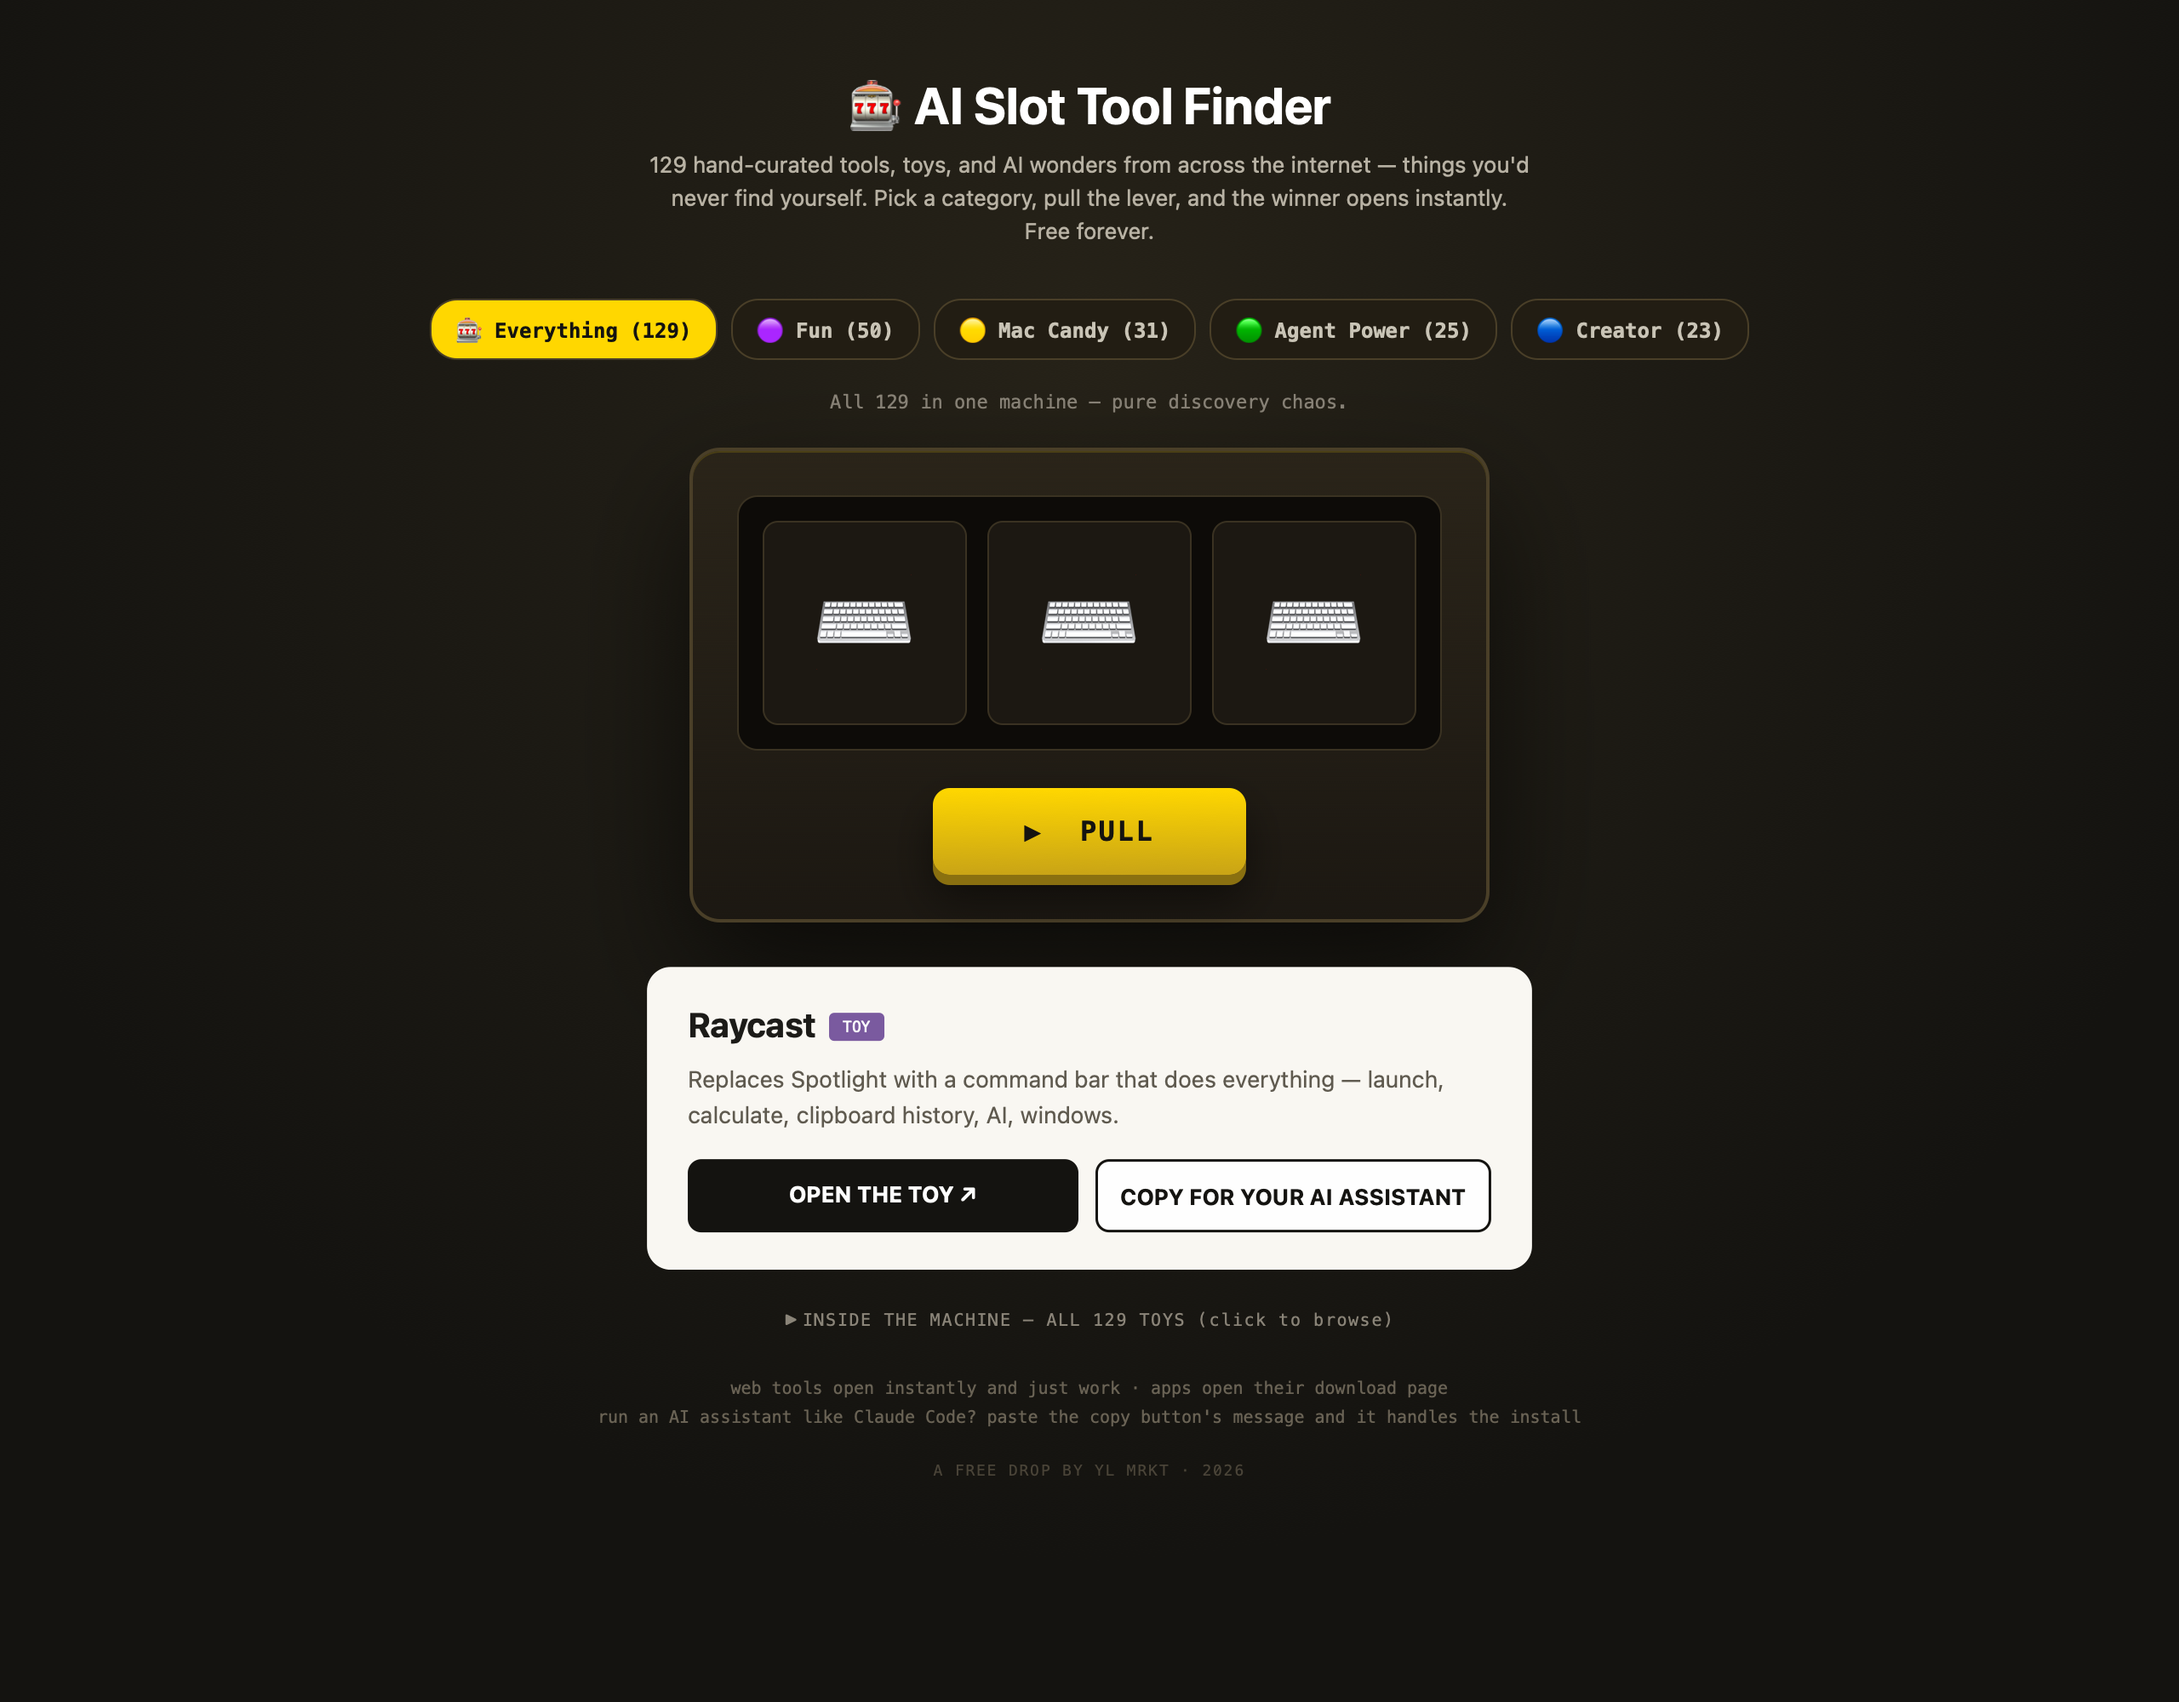
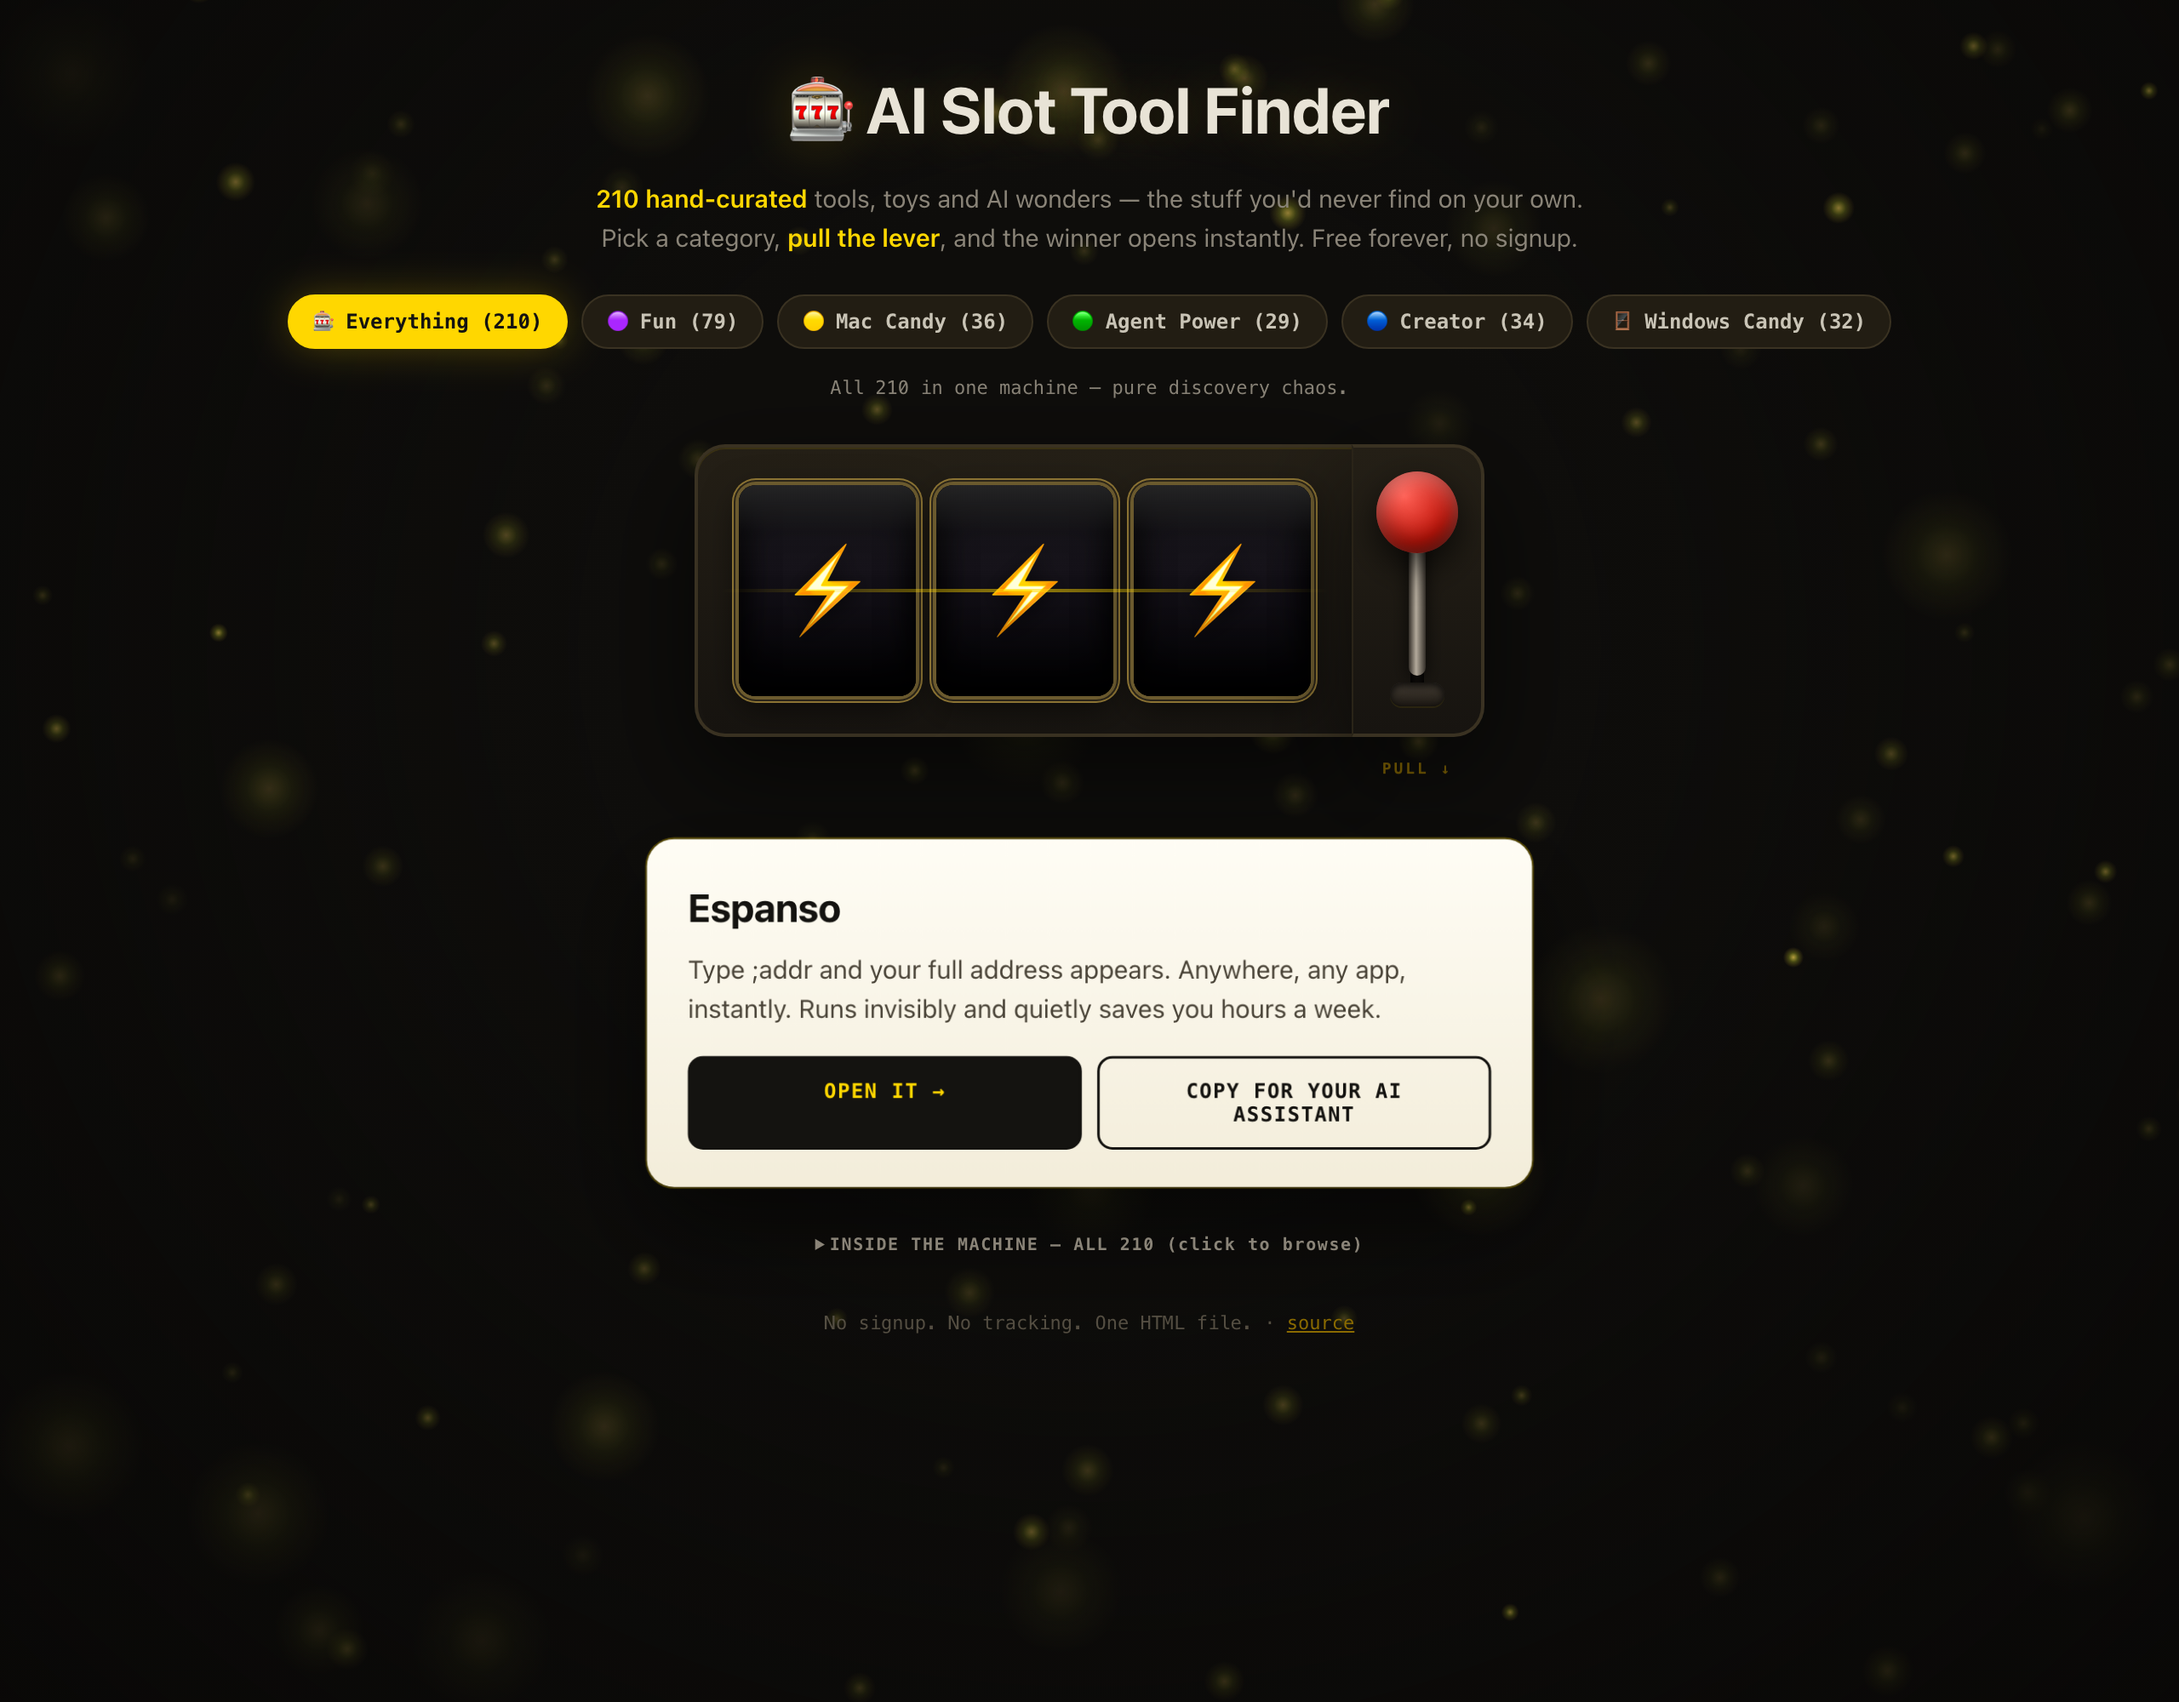
chore: repo audit — screenshots were TWO versions stale
The screenshots are what people see on GitHub and in the README, and they were showing a
machine that no longer exists: 129 tools, a yellow PULL BUTTON, five categories, and the old
card. Both regenerated by driving the REAL machine headless — the new main.png captures an
actual win (three ⚡ on the payline, rims lit, card landed on Espanso).

  screenshots/main.png            129 tools + button  ->  210 tools + lever + win
  screenshots/social-preview.png  same                ->  same, at 1280x640 for GitHub

Also:
- build_site.py was reading /tmp/toys.json — a temp file that exists on exactly one machine.
  It now reads the tools straight out of index.html via the bracket-matcher, so anyone who
  clones this can rebuild the page. Verified byte-safe: 210 tools in, 210 out, 0 dupes.
- README documents the machine that actually exists: the drag-down lever, reel physics
  (they sharpen BEFORE they stop), the all-three win, the parallax background, and
  prefers-reduced-motion.
- __pycache__/*.pyc removed from tracking and gitignored. It had been committed twice.
- add_tools.py docstring raw-stringed — it contained a regex and was throwing a SyntaxWarning
  on every import.

Counts verified consistent: 210 everywhere, zero stale 157s or 129s.
Monday's dead-link check untouched and still armed — it now has 210 links to crawl.

Changed region(s): [[0.125, 0.031, 0.8438, 0.775], [0.3125, 0.775, 0.6875, 0.837]]

diff --git a/build_site.py b/build_site.py
@@ -11,9 +11,17 @@ entire point of a slot machine and the thing the old one was missing.
 Everything that worked is preserved: the no-repeat bag shuffle, categories, the card,
 copy-for-AI, and the full browsable inventory.
 """
-import json, io, os
+import json, os, sys
 
-TOYS = open("/tmp/toys.json", encoding="utf-8").read()
+sys.path.insert(0, os.path.join(os.path.dirname(os.path.abspath(__file__)), "scripts"))
+from add_tools import find_array          # bracket-matcher — do NOT regex the TOYS array
+
+# Read the tools straight out of the live index.html. Self-contained: no temp files, and
+# running this never touches the data — the array is spliced back byte-identical.
+_here = os.path.dirname(os.path.abspath(__file__))
+_html = open(os.path.join(_here, "index.html"), encoding="utf-8").read()
+_s, _e = find_array(_html)
+TOYS = _html[_s:_e]
 
 HTML = r"""<!doctype html>
 <html lang="en">

diff --git a/scripts/add_tools.py b/scripts/add_tools.py
@@ -89,7 +89,7 @@ NEW = [
 
 
 def find_array(html):
-    """Locate the TOYS array by BRACKET MATCHING, not regex.
+    r"""Locate the TOYS array by BRACKET MATCHING, not regex.
 
     `var TOYS=(\[.*?\]);` fails: the non-greedy match stops at the first `]` it sees, which
     lands inside the array, and json.loads then chokes on "Extra data". Count brackets — and

diff --git a/README.md b/README.md
@@ -2,7 +2,7 @@
 
 A free, open-source web app for discovering curated tools — pull a slot-machine lever, get a tool you'd probably never find yourself.
 
-- **210 manually reviewed entries** across 5 categories
+- **210 manually reviewed entries** across 5 categories — every link checked, zero duplicates
 - **One self-contained HTML file** — no build step, no dependencies
 - **No login, no backend, no analytics, no tracking**
 - Works locally (download and double-click) or hosted via GitHub Pages
@@ -37,6 +37,21 @@ The machine deals without repeats — you'll see all 210 before any repeat. Pref
 - **Every link manually reviewed** before inclusion (free or real free tier · actively maintained · official source)
 - **Automated weekly link checks** run every Monday via GitHub Actions; dead links are flagged as issues and removed
 - Last full link review: **2026-07-10**
+
+## The machine
+
+Grab the red knob and **drag it down the track** — it resists, bottoms out, and springs back.
+Only a committed pull fires it (a nudge does nothing). Click or hit Enter if you'd rather.
+
+The reels are real strips: they blur, decelerate, and **sharpen just before they stop** — the
+symbol comes into focus as it slows, the way a physical reel does. Then they overshoot the
+payline and kick back. When all three land, everything fires at once — the rims throb gold,
+the symbols pop, the payline blazes, and the background flares.
+
+The background is three parallax layers whose hue shifts with the category you pick. It pauses
+when the tab is hidden.
+
+Everything respects `prefers-reduced-motion`.
 
 ## The AI assistant button
 
